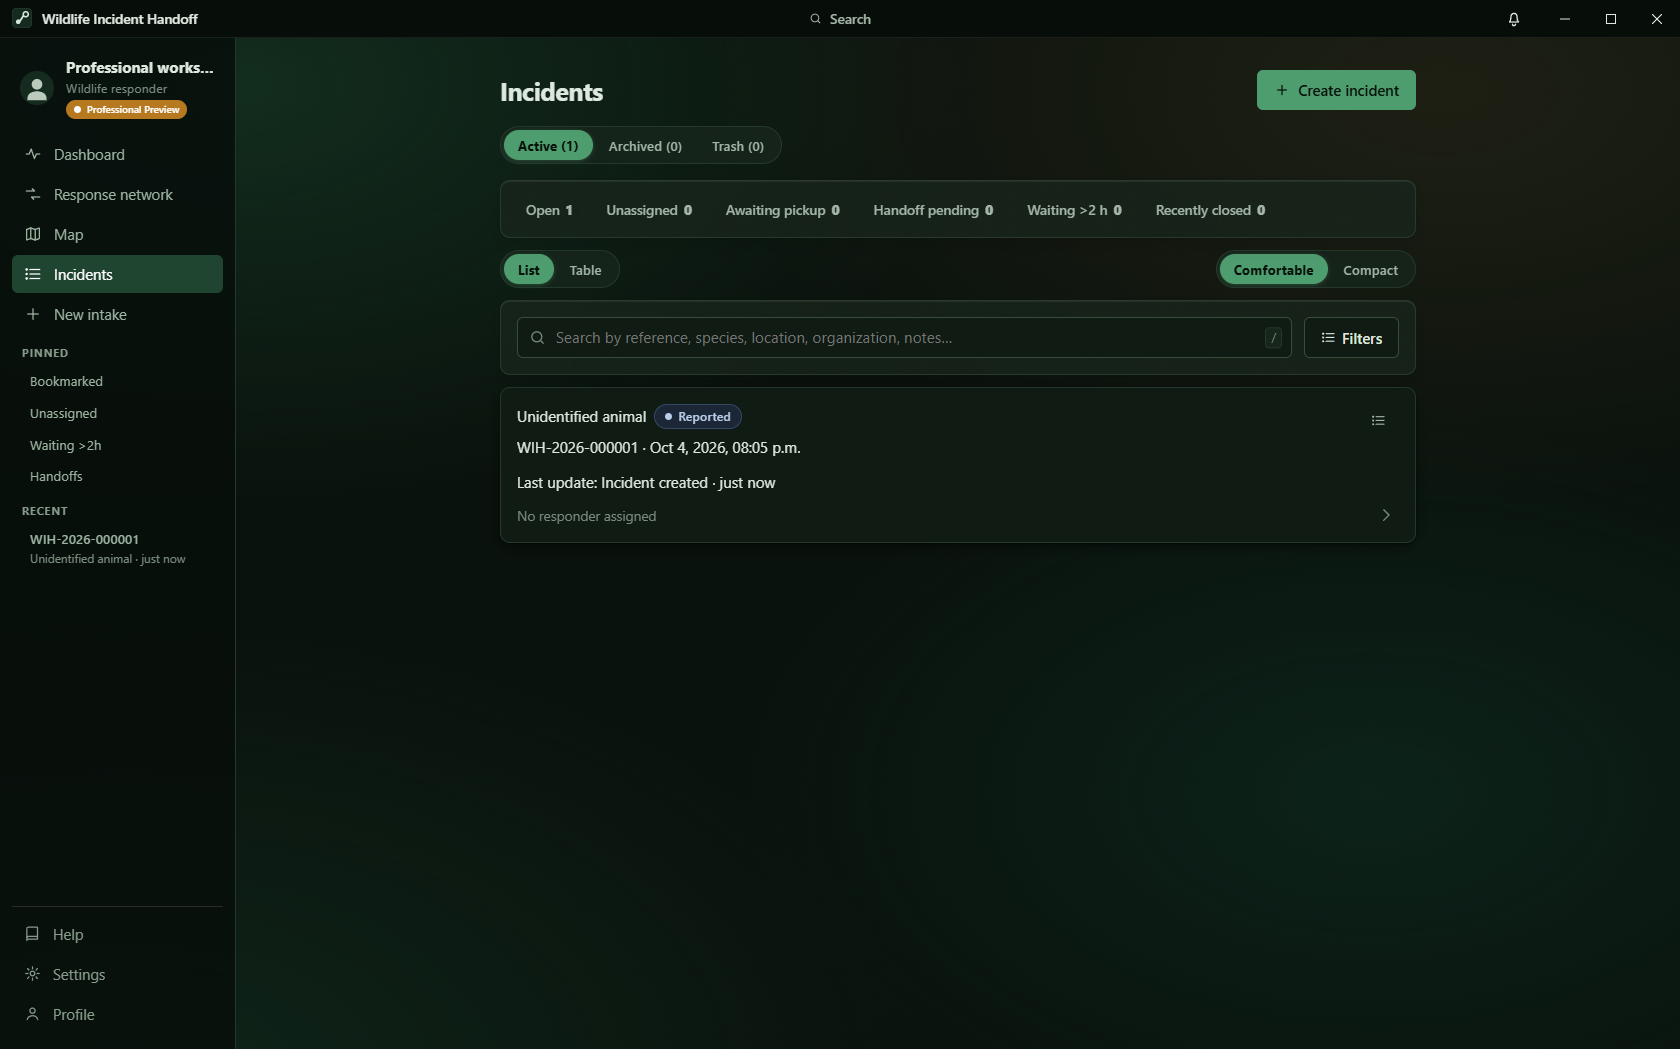
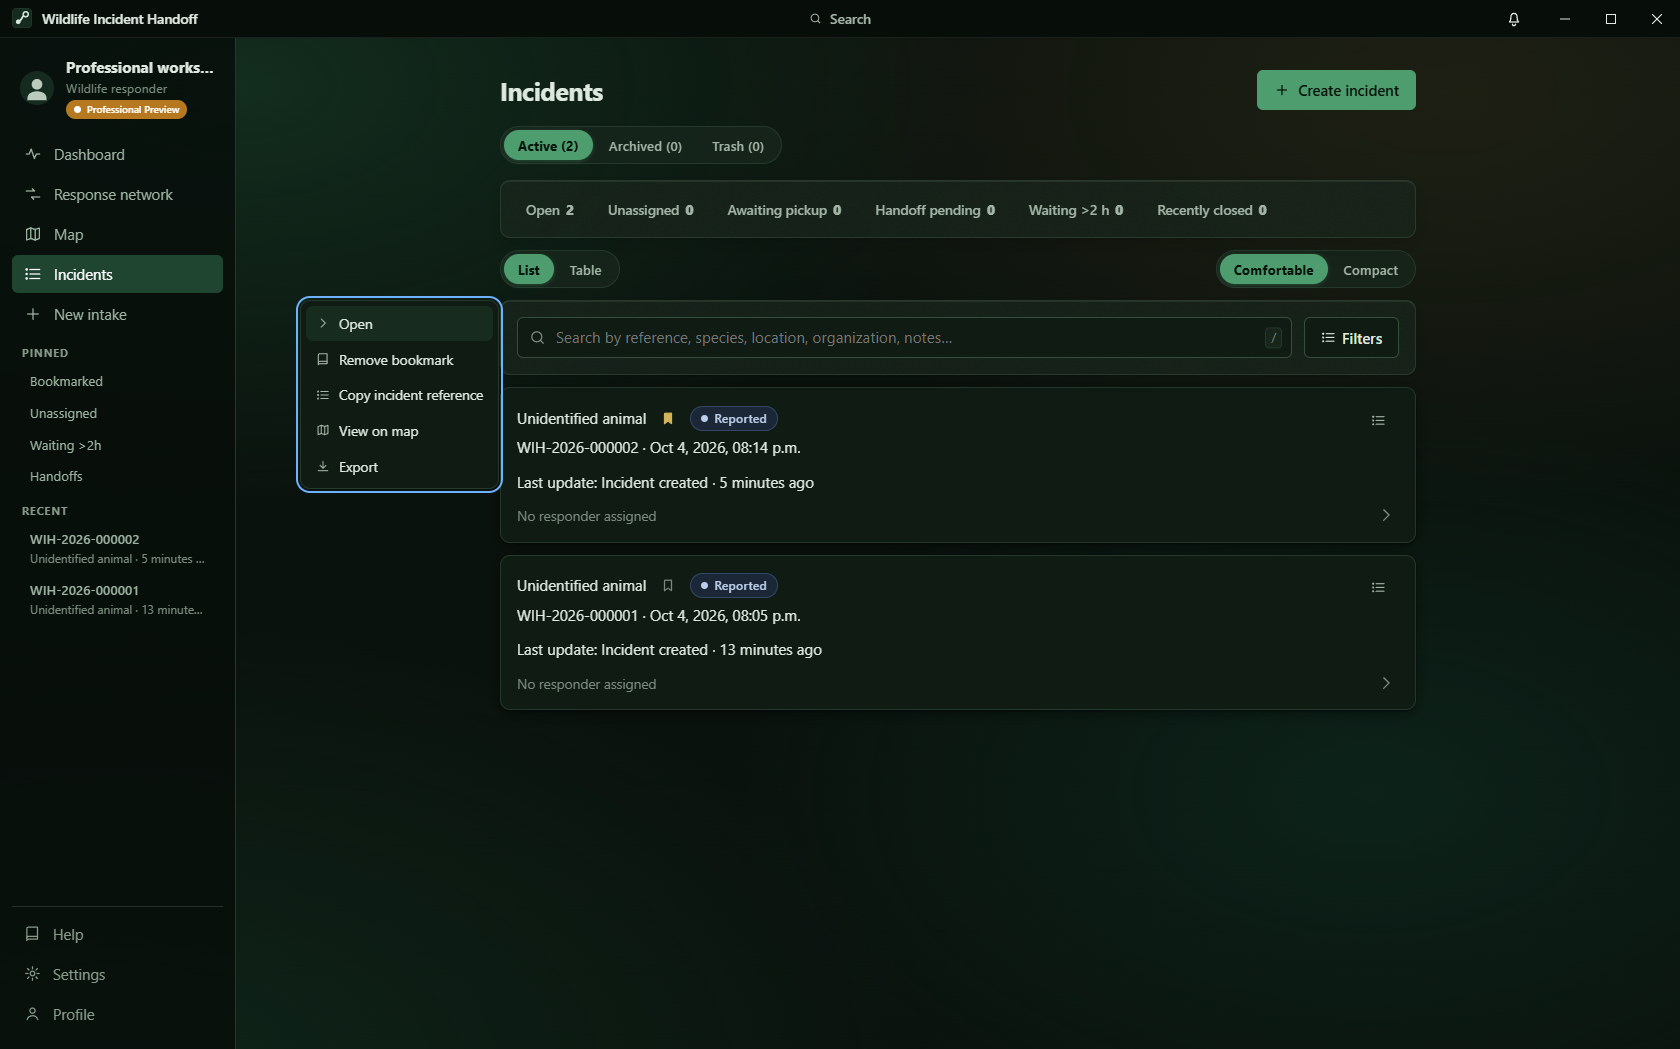
fix(0.3.0-dev.6): map inspector close pinned top-right (absolute), removed duplicated Open incident link

diff --git a/src/features/network/NetworkMap.tsx b/src/features/network/NetworkMap.tsx
@@ -638,12 +638,16 @@ export function NetworkMap({
               }}
               onKeyDown={(e) => { if (e.key === "Escape") setInspected(null); }}
             >
-              <div className="row between" style={{ gap: 8, alignItems: "flex-start" }}>
-                <strong style={{ fontSize: "0.95rem", overflowWrap: "anywhere" }}>{animalLabel(inspectedIncident)}</strong>
-                <button className="btn btn-quiet btn-sm" style={{ width: 28, height: 28, padding: 0, justifyContent: "center" }} title={t("inspectorClose", { defaultValue: "Close" })} aria-label={t("inspectorClose", { defaultValue: "Close" })} onClick={() => setInspected(null)}>
-                  <Icons.x size={14} />
-                </button>
-              </div>
+              <button
+                className="btn btn-quiet btn-sm"
+                style={{ position: "absolute", top: 8, right: 8, width: 28, height: 28, padding: 0, justifyContent: "center", zIndex: 2 }}
+                title={t("inspectorClose", { defaultValue: "Close" })}
+                aria-label={t("inspectorClose", { defaultValue: "Close" })}
+                onClick={() => setInspected(null)}
+              >
+                <Icons.x size={14} />
+              </button>
+              <strong style={{ fontSize: "0.95rem", overflowWrap: "anywhere", paddingRight: 30 }}>{animalLabel(inspectedIncident)}</strong>
               <div className="row" style={{ gap: 8, flexWrap: "wrap", alignItems: "center" }}>
                 <StatusBadge status={inspectedIncident.status} />
                 <span style={{ fontSize: "0.8rem", color: "var(--c-ink-faint)", fontVariantNumeric: "tabular-nums" }}>
@@ -689,9 +693,6 @@ export function NetworkMap({
                   </p>
                 );
               })()}
-              <Link className="btn btn-primary btn-sm" to={`/incidents/${inspectedIncident.id}`} onClick={() => onSelect?.(inspectedIncident)}>
-                {t("openIncident", { defaultValue: "Open incident" })}
-              </Link>
             </aside>
           )}
         </div>
